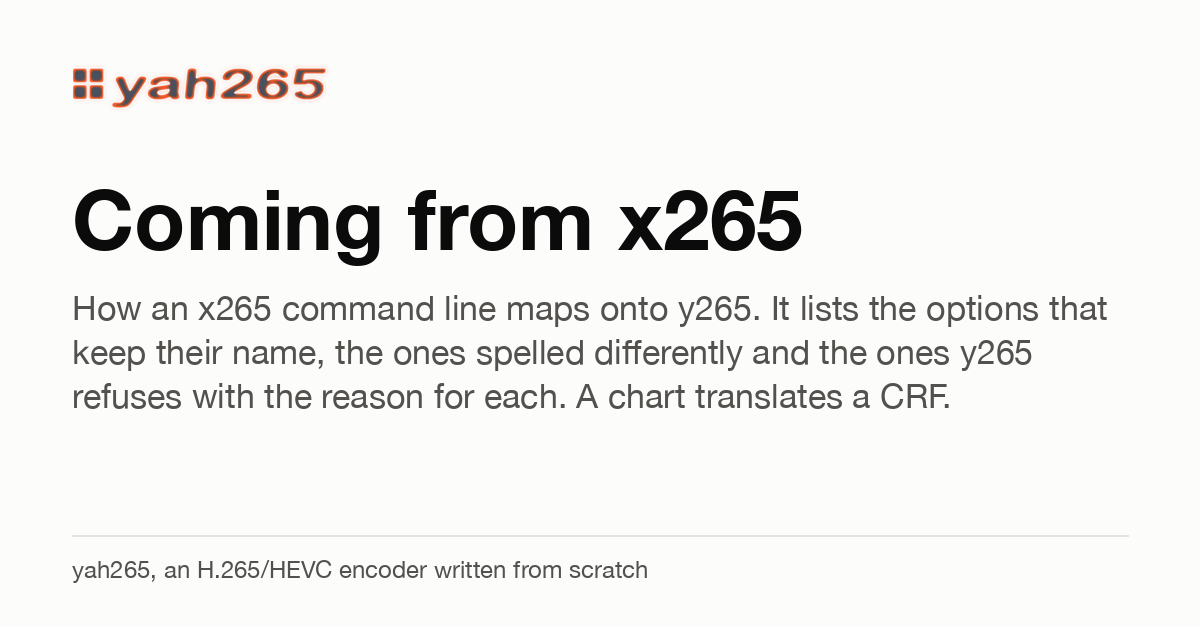
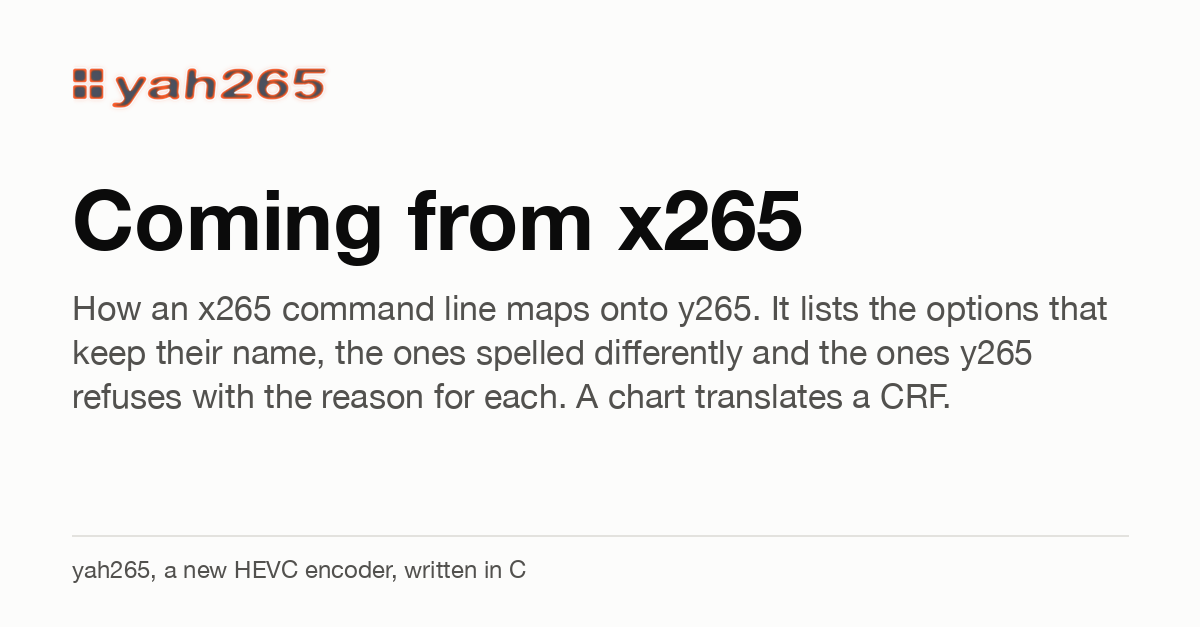
docs, cards, carousel: 'a new HEVC encoder, written in C' in place of 'from scratch'

Changed region(s): [[0.1542, 0.8788, 0.5242, 0.9394]]

diff --git a/scripts/share_cards.py b/scripts/share_cards.py
@@ -31,7 +31,7 @@ import blog_charts as bc  # noqa: E402
 ROOT = bc.ROOT
 SITE = os.path.join(ROOT, "site")
 OUT = os.path.join(SITE, "assets/share")
-LAYOUT = 2  # bump when a card's wording or layout changes
+LAYOUT = 3  # bump when a card's wording or layout changes
 SKIP = {"README.md"}
 HEADLINE_PAGES = {"index", "results", "blog"}
 W, H, M = 1200, 627, 72
@@ -137,7 +137,7 @@ def page_card(path, key, title, desc, pl):
     else:
         p.lines(M, y, p.wrap(desc, 34, W - 2 * M)[:5], 34, fill=INK2, lead=1.3)
         p.d.line((M, H - 92, W - M, H - 92), fill=RULE, width=2)
-        p.text(M, H - 72, "yah265, an H.265/HEVC encoder written from scratch", 24, fill=INK2)
+        p.text(M, H - 72, "yah265, a new HEVC encoder, written in C", 24, fill=INK2)
     p.save(path, key)
 
 
@@ -204,7 +204,7 @@ def launch_square(path, key, pl):
             "at the same file size"]
     size = p.fit(main, 112, S - 2 * M)
     y = p.lines(M, 250, main, size, True, lead=1.2) + 50
-    p.lines(M, y, p.wrap("An H.265/HEVC encoder written from scratch. It runs inside ffmpeg.",
+    p.lines(M, y, p.wrap("A new HEVC encoder, written in C. It runs inside ffmpeg.",
                          40, S - 2 * M), 40, fill=INK2, lead=1.3)
     p.lines(M, S - 150, p.wrap(foot(pl), 26, S - 2 * M), 26, fill=INK2, lead=1.3)
     p.save(path, key)

diff --git a/scripts/linkedin_carousel.py b/scripts/linkedin_carousel.py
@@ -149,7 +149,7 @@ def scope(pl):
 
 
 def hook(s, pl):
-    s.para(M, 250, "I wrote an HEVC video encoder from scratch.", 42, "medium", INK2)
+    s.para(M, 250, "A new HEVC encoder, written in C.", 42, "medium", INK2)
     s.text(M - 14, 318, bc.headline_times(pl), 318, "heavy", NEON)
     y = s.para(M, 700, "faster than x265", 104, "bold", lead=1.1)
     y = s.para(M, y + 22, "at the same file size, with better quality.", 54, "medium", INK2,

diff --git a/site/blog.md b/site/blog.md
@@ -1,6 +1,6 @@
 ---
 title: Introducing yah265
-description: An H.265/HEVC encoder written from scratch. It encodes faster than x265 at medium on Apple silicon, x86-64 and Graviton. Its files score higher on VMAF v1 at the same size.
+description: A new HEVC encoder, written in C. It encodes faster than x265 at medium on Apple silicon, x86-64 and Graviton. Its files score higher on VMAF v1 at the same size.
 type: article
 image: assets/blog/card.png
 ---
@@ -9,7 +9,7 @@ image: assets/blog/card.png
 
 <!--gen:headline-->On an Apple M5 Max, yah265 encodes a median 1.8x faster than x265 at the same file size. Its VMAF v1 score is a median 1.23 points higher. Those medians cover the 30 CRF encodes of the test set where the two files match in size within 1%, from short clips to ten-minute films at CIF to 4K. Both encoders ran at preset medium with SIMD on all cores.<!--/gen:headline-->
 
-It's an H.265/HEVC encoder I wrote from scratch. Speed is the reason to try it. The chart shows what the difference looks like on real films. Both encoders wrote files of the same size from the same ten-minute films on my Mac at `--preset medium`. yah265 finished every film first. Each of its files also scored higher on VMAF v1.
+It's a new HEVC encoder I wrote in C. Speed is the reason to try it. The chart shows what the difference looks like on real films. Both encoders wrote files of the same size from the same ten-minute films on my Mac at `--preset medium`. yah265 finished every film first. Each of its files also scored higher on VMAF v1.
 
 <figure class="chart"><img src="assets/blog/films.svg" alt="Paired bars of encode time per ten-minute film at 1080p and at 4K. On every film the yah265 bar is shorter, at a half to two thirds of the x265 bar."><figcaption>The films table below has the same readings.</figcaption></figure>
 

diff --git a/site/index.md b/site/index.md
@@ -1,6 +1,6 @@
 ---
 title: yah265
-description: An H.265/HEVC encoder written from scratch. It runs faster than x265 at medium and scores higher on VMAF v1 at the same file size.
+description: A new HEVC encoder, written in C. It runs faster than x265 at medium and scores higher on VMAF v1 at the same file size.
 ---
 
 # yah265
@@ -9,7 +9,7 @@ Welcome to the home of yah265, an HEVC encoder that went through months of optim
 
 <p class="standfirst"><!--gen:headline-->On an Apple M5 Max, yah265 encodes a median 1.8x faster than x265 at the same file size. Its VMAF v1 score is a median 1.23 points higher. Those medians cover the 30 CRF encodes of the test set where the two files match in size within 1%, from short clips to ten-minute films at CIF to 4K. Both encoders ran at preset medium with SIMD on all cores.<!--/gen:headline--></p>
 
-yah265 is an H.265/HEVC encoder written from scratch in C. It runs inside ffmpeg under the options you already use.
+yah265 is a new HEVC encoder, written in C. It runs inside ffmpeg under the options you already use.
 
 <figure class="chart hero"><img src="assets/charts/front/home-hero.svg" alt="Two bars race over the same encode. When the yah265 bar reaches the finish, the x265 bar is a little over halfway."></figure>
 

diff --git a/README.md b/README.md
@@ -16,7 +16,7 @@
 
 <!--gen:headline-->On an Apple M5 Max, yah265 encodes a median 1.8x faster than x265 at the same file size. Its VMAF v1 score is a median 1.23 points higher. Those medians cover the 30 CRF encodes of the test set where the two files match in size within 1%, from short clips to ten-minute films at CIF to 4K. Both encoders ran at preset medium with SIMD on all cores.<!--/gen:headline-->
 
-yah265 is an H.265/HEVC encoder written from scratch in C. It runs inside ffmpeg under the options you already use. Its sibling [yah264](https://terranvigil.github.io/yah264/) met the same goals against x264.
+yah265 is a new HEVC encoder, written in C. It runs inside ffmpeg under the options you already use. Its sibling [yah264](https://terranvigil.github.io/yah264/) met the same goals against x264.
 
 ## Try it
 
